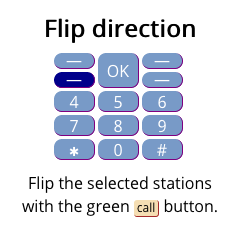
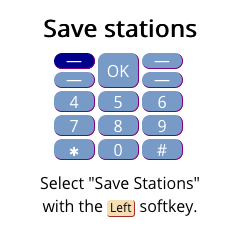
Reorder the help screens.

Changed region(s): [[0.0875, 0.7675, 0.9042, 0.9518], [0.175, 0.0614, 0.8167, 0.1842], [0.2042, 0.2149, 0.4083, 0.3991]]

diff --git a/webapp/es5/NextCaltrain.js b/webapp/es5/NextCaltrain.js
@@ -29,7 +29,7 @@ var screens = 'hero grid trip about commands'.split(' ');
 var titles = { 'about': 'About Next Caltrain', 'commands': 'Keypad commands' };
 var email = 'next-caltrain@netpress.com';
 
-var hints = [['Set your origin', [4, 6], 'Use [4] and [6] to<br/>set your origin station.'], ['Set destination', [7, 9], 'Use [7] and [9] to<br/>set destination station.'], ['Select a train', [5, 8], 'Use [5] and [8] to move<br/>the seletion up and down.'], ['Change schedule', ['0'], 'Use [0] to cycle through<br/>available schedules.'], ['Flip direction', ['c'], 'Flip the selected stations<br/>with the green [call] button.'], ['Save stations', ['l'], 'Select "Save Stations"<br/>with the [Left] softkey.'], ['Bookmark app', ['r'], 'Select "Pin to Apps Menu"<br/>with the [Right] softkey.'], ['Thanks for using<br/> Next Caltrain', null, `Please send feedback to<br/>&nbsp;<a href="mailto:${email}">${email}</a>.<br/>` + 'Note: The cursor (arrow)<br/>is not used by this app,<br/>' + 'just move it to the right.<br/>']];
+var hints = [['Set your origin', [4, 6], 'Use [4] and [6] to<br/>set your origin station.'], ['Set destination', [7, 9], 'Use [7] and [9] to<br/>set destination station.'], ['Select a train', [5, 8], 'Use [5] and [8] to move<br/>the seletion up and down.'], ['Flip direction', ['c'], 'Flip the selected stations<br/>with the green [call] button.'], ['Save stations', ['l'], 'Select "Save Stations"<br/>with the [Left] softkey.'], ['Bookmark app', ['r'], 'Select "Pin to Apps Menu"<br/>with the [Right] softkey.'], ['Change schedule', ['0'], 'Use [0] to cycle through<br/>available schedules.'], ['Thanks for using<br/> Next Caltrain', null, `Please send feedback to<br/>&nbsp;<a href="mailto:${email}">${email}</a>.<br/>` + 'Note: The cursor (arrow)<br/>is not used by this app,<br/>' + 'just move it to the right.<br/>']];
 
 var hintIndex = -1;
 

diff --git a/src/NextCaltrain.js b/src/NextCaltrain.js
@@ -30,14 +30,14 @@ const hints = [
    'Use [7] and [9] to<br/>set destination station.'],
   ['Select a train', [5,8],
    'Use [5] and [8] to move<br/>the seletion up and down.'],
-  ['Change schedule', ['0'],
-   'Use [0] to cycle through<br/>available schedules.'],
   ['Flip direction', ['c'],
    'Flip the selected stations<br/>with the green [call] button.'],
   ['Save stations', ['l'],
    'Select "Save Stations"<br/>with the [Left] softkey.'],
   ['Bookmark app', ['r'],
    'Select "Pin to Apps Menu"<br/>with the [Right] softkey.'],
+  ['Change schedule', ['0'],
+   'Use [0] to cycle through<br/>available schedules.'],
   ['Thanks for using<br/> Next Caltrain', null,
    `Please send feedback to<br/>&nbsp;<a href="mailto:${email}">${email}</a>.<br/>` +
    'Note: The cursor (arrow)<br/>is not used by this app,<br/>' +
